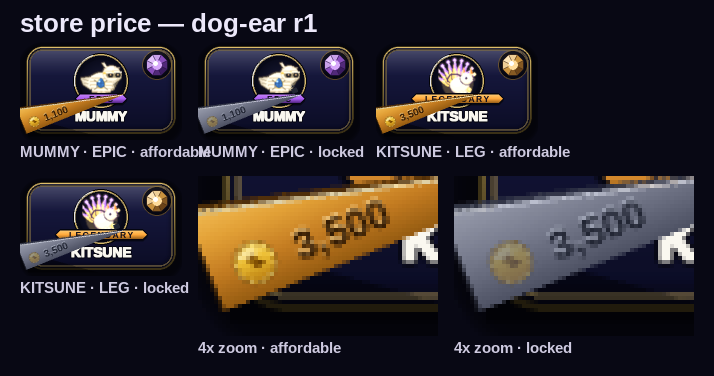
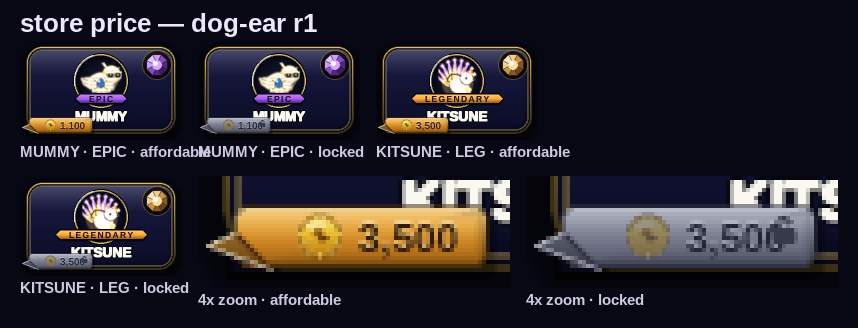
Add dog-ear store-card price redesign round_1 render sheet
A bottom-left peeled price sticker replacing the bottom-center pill chip:
the price rides a lifted plate whose bottom-left corner curls up as a
dog-ear, casting a soft shadow. Colour flips gold (affordable) vs pewter
(locked). Review-only tooling + render; nothing wired into the live store.

Claude-Session: https://claude.ai/code/session_01DaGYw11VdAubog2VGiiucC

diff --git a/tools/_store_price_dog_ear_r1.py b/tools/_store_price_dog_ear_r1.py
@@ -107,70 +107,99 @@ def _label_strip(text, affordable):
     return lab
 
 
+def _widest_label_w(affordable):
+    return _label_strip(_WIDEST_TXT, affordable).get_width()
+
+
 def my_price_chip(surf, cx, cy, text, h, variant=1, affordable=True):
-    """DOG-EAR peel: a lifted right-triangle flap in the card's bottom-left
-    corner carrying the price along its crease. The whole flap re-tints gold
-    (affordable) vs pewter (locked); a soft cast shadow sells the lift."""
-    # Flap sized to hold the WIDEST catalog price along its hypotenuse so every
-    # card's peel matches. Right angle at the corner tip; the hypotenuse is the
-    # lifted crease.
-    Hf = sc.m(24)
-    Wf = sc.m(67)
-    tri = [(0, Hf), (Wf, Hf), (0, 0)]
-    hyp = math.hypot(Wf, Hf)
-    ang = math.degrees(math.atan2(Hf, Wf))     # crease descends this much (upright)
+    """DOG-EAR peel: a physical price sticker lifting off the card's bottom-left.
+    The sticker carries the price horizontally (the clear strip beneath the item
+    name is only wide, not tall — a steep tilt would collide with the name), and
+    its bottom-left corner CURLS UP as a dog-ear so it reads as peeling paper.
+    The whole sticker re-tints gold (affordable) vs pewter (locked)."""
+    lab = _label_strip(text, affordable)
+    lw, lh = lab.get_size()
+    pad_x = sc.m(9)
+    ear = sc.m(9)                              # size of the peeled corner
+    plate_w = pad_x + _widest_label_w(affordable) + pad_x
+    plate_h = lh + sc.m(4)
+    rad = sc.m(3)
+
+    # anchor the plate into the bottom-left corner, snug to the card's bottom
+    # edge and left inset, sitting entirely below the item name.
+    x0 = sc.m(9)
+    y1 = sc.m(93)
+    y0 = y1 - plate_h
+    plate = pygame.Rect(x0, y0, plate_w, plate_h)
 
     if affordable:
         stops, rim_hi, rim_lo = GOLD_STOPS, GOLD_RIM_HI, GOLD_RIM_LO
+        under = (150, 92, 18)                  # dark gold sticker underside
     else:
         stops, rim_hi, rim_lo = PEWTER_STOPS, PEWTER_RIM_HI, PEWTER_RIM_LO
+        under = (78, 82, 100)
 
-    flap = pygame.Surface((Wf, Hf), pygame.SRCALPHA)
-    grad = sc.vgrad_stops(Wf, Hf, 0, stops, 255, gamma=sc.GOLD_A_GAMMA)
-    flap.blit(grad, (0, 0))
-    mask = pygame.Surface((Wf, Hf), pygame.SRCALPHA)
-    pygame.draw.polygon(mask, (255, 255, 255, 255), tri)
-    flap.blit(mask, (0, 0), special_flags=pygame.BLEND_RGBA_MIN)
+    # ── cast shadow first: the sticker floats, so it drops a soft offset shadow;
+    # the peeled corner throws a deeper wedge of shade beneath the curl ──
+    sh = pygame.Surface(surf.get_size(), pygame.SRCALPHA)
+    pygame.draw.rect(sh, (0, 0, 0, 95), plate.move(sc.m(2), sc.m(3)),
+                     border_radius=rad)
+    pygame.draw.polygon(sh, (0, 0, 0, 150),
+                        [(x0, y1 - ear), (x0 + ear + sc.m(3), y1 + sc.m(2)),
+                         (x0 - sc.m(2), y1 + sc.m(3))])
+    surf.blit(sh, (0, 0))
 
-    # crease: dark keyline along the fold diagonal with a bright rim just inside,
-    # so the lifted free edge catches light over a shaded fold; the two cut card
-    # edges get a thin dark contact line for paper thickness.
-    pygame.draw.line(flap, (*rim_lo, 235), (0, 0), (Wf, Hf), max(1, sc.m(1.4)))
-    pygame.draw.line(flap, (*rim_hi, 225),
-                     (sc.m(1.4), sc.m(1.2)), (Wf - sc.m(1.4), Hf), max(1, sc.m(1.0)))
-    pygame.draw.line(flap, (*rim_lo, 165), (0, 0), (0, Hf), max(1, sc.m(0.8)))
-    pygame.draw.line(flap, (*rim_lo, 165), (0, Hf), (Wf, Hf), max(1, sc.m(0.8)))
+    # ── plate body: one gold gradient, gloss on the crown, AO on the foot, a
+    # dark keyline under a bright top-left bevel — the card's chip finish, but
+    # gold/pewter instead of dark enamel ──
+    body = sc.vgrad_stops(plate_w, plate_h, rad, stops, 255, gamma=sc.GOLD_A_GAMMA)
+    surf.blit(body, plate.topleft)
+    sc.top_sheen(surf, plate, rad, plate_h // 2, peak=70)
+    sc.contact_shadow(surf, plate, rad, sc.m(3), alpha=70)
+    # notch out the peeled corner so the plate reads as missing that triangle
+    notch = pygame.Surface(surf.get_size(), pygame.SRCALPHA)
+    pygame.draw.polygon(notch, (255, 255, 255, 255),
+                        [(x0 - 1, y1 - ear), (x0 + ear, y1 + 1), (x0 - 1, y1 + 1)])
+    surf.blit(notch, (0, 0), special_flags=pygame.BLEND_RGBA_SUB)
+    pygame.draw.rect(surf, (*rim_lo, 220), plate, width=max(1, sc.m(1.2)),
+                     border_radius=rad)
+    sc.bevel_rim(surf, plate, rad, (*rim_lo, 220), (*rim_hi, 225), w=max(1, sc.m(1.2)))
 
-    # lay the coin+price along the crease (rotated to descend with it), nudged
-    # perpendicular into the flap body so it rides the face, not the fold line.
-    lab = _label_strip(text, affordable)
-    rlab = pygame.transform.rotate(lab, ang)
-    nrm = (-Wf / hyp, Hf / hyp)                 # unit normal toward the tip vertex
-    off = lab.get_height() * 0.5 + sc.m(3)
-    mid = (Wf / 2 + nrm[0] * off, Hf / 2 + nrm[1] * off)
-    flap.blit(rlab, rlab.get_rect(center=mid))
+    # ── the peeled dog-ear: a triangle folded UP-LEFT off the bottom-left corner,
+    # showing the sticker's darker underside, with a bright catch of light on the
+    # curl and a dark crease along the diagonal ──
+    P0 = (x0, y1 - ear)                        # crease top on the left edge
+    P1 = (x0 + ear, y1)                        # crease foot on the bottom edge
+    P2 = (x0 - ear + sc.m(2), y1 - ear + sc.m(3))   # lifted free tip, curled out
+    curl = pygame.Surface(surf.get_size(), pygame.SRCALPHA)
+    ug = sc.vgrad_stops(ear * 2, ear * 2, 0,
+                        [(0.0, sc.lerp_color(under, WHITE, 0.30)),
+                         (1.0, sc.lerp_color(under, (0, 0, 0), 0.25))], 255)
+    umask = pygame.Surface((ear * 2, ear * 2), pygame.SRCALPHA)
+    off = (P0[0] - ear, P0[1] - ear)
+    pygame.draw.polygon(umask, (255, 255, 255, 255),
+                        [(p[0] - off[0], p[1] - off[1]) for p in (P0, P1, P2)])
+    ug.blit(umask, (0, 0), special_flags=pygame.BLEND_RGBA_MIN)
+    curl.blit(ug, off)
+    surf.blit(curl, (0, 0))
+    pygame.draw.line(surf, (*rim_lo, 235), P0, P1, max(1, sc.m(1.3)))   # crease
+    pygame.draw.line(surf, (*rim_hi, 210), P2, P0, max(1, sc.m(1.0)))   # lit curl
+    pygame.draw.line(surf, (*rim_hi, 170), P2, P1, max(1, sc.m(0.8)))
 
-    # locked peels earn a tiny padlock near the crease — a wordless "can't buy".
+    # ── the price, seated on the plate face, nudged right to clear the ear ──
+    surf.blit(lab, lab.get_rect(center=(plate.centerx + ear // 2,
+                                        plate.centery)))
+
+    # locked plates carry a tiny padlock at the right end
     if not affordable:
-        lx, ly = int(Wf * 0.5), sc.m(4)
-        pygame.draw.rect(flap, PEWTER_NUM, (lx, ly, sc.m(6), sc.m(4)),
+        lx = plate.right - sc.m(11)
+        ly = plate.centery - sc.m(2)
+        pygame.draw.rect(surf, PEWTER_RIM_LO, (lx, ly, sc.m(6), sc.m(4)),
                          border_radius=max(1, sc.m(1)))
-        pygame.draw.arc(flap, PEWTER_NUM,
+        pygame.draw.arc(surf, PEWTER_RIM_LO,
                         (lx + sc.m(1), ly - sc.m(3), sc.m(4), sc.m(6)),
                         math.radians(20), math.radians(160), max(1, sc.m(1)))
-
-    # ── cast shadow FIRST (flat on the card), then the lifted flap on top ──
-    shadow = pygame.Surface(surf.get_size(), pygame.SRCALPHA)
-    sh_tri = [(sc.m(6), sc.m(72)), (sc.m(74), sc.m(94)), (sc.m(6), sc.m(94))]
-    pygame.draw.polygon(shadow, (0, 0, 0, 110), sh_tri)
-    surf.blit(shadow, (sc.m(2), sc.m(2)))
-
-    # rotate the whole flap up so the crease runs gently upper-right, then anchor
-    # the right-angle tip to the card's bottom-left corner.
-    rot = pygame.transform.rotate(flap, ROT)
-    tip = _rot_point((0, Hf), (Wf, Hf), rot.get_size(), ROT)
-    surf.blit(rot, (int(round(CORNER[0] - tip[0])), int(round(CORNER[1] - tip[1]))))
-    return pygame.Rect(cx, cy, 1, 1)
+    return plate
 
 
 sc.price_chip = my_price_chip            # patch BEFORE any draw_card call
@@ -207,20 +236,21 @@ def main():
     cards = [(render_card_1x(sid, aff), lbl) for sid, aff, lbl in specs]
     cw, ch = cards[0][0].get_size()
 
-    # 4x zoom of the price corner (bottom-left ~60x40 logical -> 240x160).
-    crop_src = render_card_1x("skin_kitsune", True)
-    crop = crop_src.subsurface(pygame.Rect(0, 60, 60, 40)).copy()
-    zoom = pygame.transform.scale(crop, (240, 160))
-    crop_src2 = render_card_1x("skin_kitsune", False)
-    crop2 = crop_src2.subsurface(pygame.Rect(0, 60, 60, 40)).copy()
-    zoom2 = pygame.transform.scale(crop2, (240, 160))
+    # 4x zoom of the price corner framing the whole peeled sticker.
+    cr = pygame.Rect(0, 70, 78, 28)
+    zdim = (cr.w * 4, cr.h * 4)
+    zoom = pygame.transform.scale(
+        render_card_1x("skin_kitsune", True).subsurface(cr).copy(), zdim)
+    zoom2 = pygame.transform.scale(
+        render_card_1x("skin_kitsune", False).subsurface(cr).copy(), zdim)
 
     row1_w = cw * 3 + gap * 2
-    row2_w = cw + gap + 240 + gap + 240
+    zw, zh = zoom.get_size()
+    row2_w = cw + gap + zw + gap + zw
     canvas_w = pad * 2 + max(row1_w, row2_w)
     row1_y = header_h
     row2_y = row1_y + ch + label_h + gap
-    canvas_h = row2_y + max(ch, 160) + label_h + pad
+    canvas_h = row2_y + max(ch, zh) + label_h + pad
 
     canvas = pygame.Surface((canvas_w, canvas_h))
     canvas.fill((8, 8, 20))
@@ -244,11 +274,11 @@ def main():
     x += cw + gap
     canvas.blit(zoom, (x, row2_y))
     canvas.blit(lf.render("4x zoom · affordable", True, (206, 202, 224)),
-                (x, row2_y + 160 + 3))
-    x += 240 + gap
+                (x, row2_y + zh + 3))
+    x += zw + gap
     canvas.blit(zoom2, (x, row2_y))
     canvas.blit(lf.render("4x zoom · locked", True, (206, 202, 224)),
-                (x, row2_y + 160 + 3))
+                (x, row2_y + zh + 3))
 
     pygame.image.save(canvas, out)
     print("saved", out, canvas.get_size())
